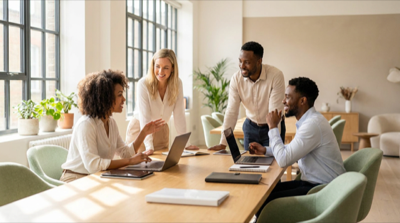
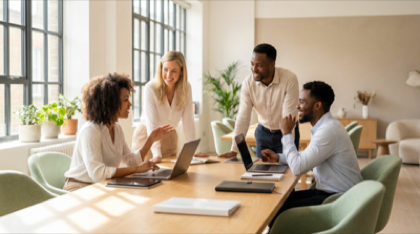
Fill the social phone mockups with real content
The For-You phone now plays an actual vertical clip behind the UI chrome
instead of a grey plate with a play triangle, with a top/bottom scrim so the
progress bar and action rail stay legible over footage. The LinkedIn feed
carries real post photography in its image slots.

The clip is 5s at 340px wide, muted/looping/playsInline, re-encoded from the
3.1MB source down to 72KB so the page weight barely moves. Only the first
instance preloads; the rest are preload=none.

Verified playing and advancing in-browser.

The Reviews phone is deliberately left abstract. Populating a Google Reviews
panel with realistic avatars and review text would recreate the fabricated
social proof removed in an earlier commit, so it keeps placeholder shapes
until there are real, consented reviews to show.

diff --git a/app/src/components/SocialMedia.tsx b/app/src/components/SocialMedia.tsx
@@ -57,16 +57,24 @@ function FeedCards({ kind }: { kind: FeedKind }) {
     return (
       <>
         {[0, 1, 2, 3].map((i) => (
-          <div key={i} className="relative overflow-hidden bg-[#e9ebed]" style={{ height: VIEW_H }}>
+          <div key={i} className="relative overflow-hidden bg-[#111111]" style={{ height: VIEW_H }}>
+            {/* the actual clip — muted, looping, decorative */}
+            <video
+              src="/assets/social/fyp.mp4"
+              autoPlay
+              loop
+              muted
+              playsInline
+              preload={i === 0 ? "auto" : "none"}
+              aria-hidden
+              className="absolute inset-0 h-full w-full object-cover"
+              style={{ transform: `scale(1.02) translateY(${i * 2}px)` }}
+            />
+            <span aria-hidden className="absolute inset-0 bg-gradient-to-t from-black/45 via-transparent to-black/25" />
             <div className="absolute inset-x-0 top-0 flex gap-1 p-2">
               {[0, 1, 2, 3].map((s) => (
                 <span key={s} className={`h-[3px] flex-1 rounded-full ${s <= i ? "bg-white" : "bg-white/40"}`} />
               ))}
-            </div>
-            <div className="absolute inset-0 grid place-items-center">
-              <span className="grid h-12 w-12 place-items-center rounded-full bg-white/85 shadow">
-                <span className="ml-1 block h-0 w-0 border-y-[8px] border-l-[13px] border-y-transparent border-l-[#111111]" />
-              </span>
             </div>
             <div className="absolute right-2 bottom-4 flex flex-col items-center gap-2.5">
               {["♥", "💬", "↗"].map((g, k) => (
@@ -145,7 +153,14 @@ function FeedCards({ kind }: { kind: FeedKind }) {
             <div className="mt-2 space-y-1">
               <Bar w="100%" o={0.1} />
               <Bar w="90%" o={0.1} />
-              {i % 2 === 0 && <div className="mt-1.5 h-14 rounded-lg bg-[#eceef0]" />}
+              {i % 2 === 0 && (
+                <img
+                  src={i === 0 ? "/assets/social/feed1.png" : "/assets/social/feed2.png"}
+                  alt=""
+                  loading="lazy"
+                  className="mt-1.5 h-14 w-full rounded-lg object-cover"
+                />
+              )}
             </div>
             <div className="mt-2 flex items-center gap-1.5 border-t border-black/[0.05] pt-1.5">
               <span className="grid h-3.5 w-3.5 place-items-center rounded-full bg-[#1e6b3c] text-[7px] text-white">👍</span>
